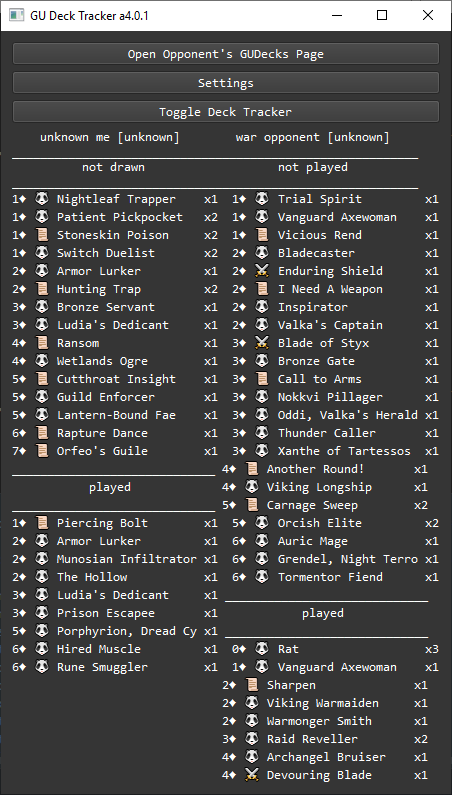
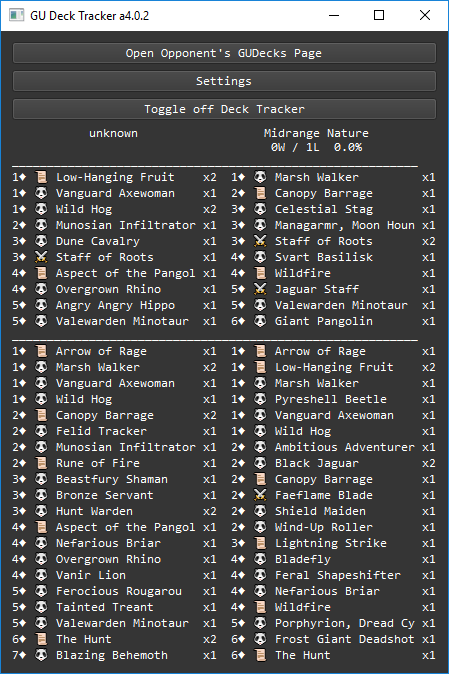
up readme, links and screenshot

Changed region(s): [[0.0, 0.0, 1.0, 1.0]]

diff --git a/main.py b/main.py
@@ -714,13 +714,13 @@ def compareVersions(v1, v2):
 
 
 def findGithubVersion():
-    githubData = urllib.request.urlopen("https://github.com/JMoore11235/GU_Deck_Tracker/")
+    githubData = urllib.request.urlopen("https://github.com/antofa/GU_Deck_Tracker/")
     githubString = githubData.read().decode("utf8")
     return re.search('gu_tracker-v(.*).py" ', githubString).group(1).strip()
 
 
 def openPatchNotesWebpage():
-    webbrowser.open(("https://github.com/JMoore11235/GU_Deck_Tracker/blob/main/ChangeLog.md"), new=2, autoraise=True)
+    webbrowser.open(("https://github.com/antofa/GU_Deck_Tracker/blob/main/ChangeLog.md"), new=2, autoraise=True)
 
 
 def updateAndRestart(configFile, updateVersion):
@@ -736,19 +736,19 @@ def updateAndRestart(configFile, updateVersion):
 
     # Download the .exe
     filename, headers = urllib.request.urlretrieve(
-        "https://github.com/JMoore11235/GU_Deck_Tracker/releases/download/" + updateVersion +
+        "https://github.com/antofa/GU_Deck_Tracker/releases/download/" + updateVersion +
         "/gu_tracker-v" + updateVersion + ".exe", "gu_tracker-v" + updateVersion + ".exe")
 
     # If people want to auto update with the .py file, uncomment this out
 
     # Download the .py
     # urllib.request.urlretrieve(
-    #    "https://github.com/JMoore11235/GU_Deck_Tracker/releases/download/" + updateVersion + "/gu_tracker-v" +
+    #    "https://github.com/antofa/GU_Deck_Tracker/releases/download/" + updateVersion + "/gu_tracker-v" +
     #    updateVersion + ".py", "gu_tracker-v" + updateVersion + ".py")
     #
     # Download the condensed_card_library.txt
     # urllib.request.urlretrieve(
-    #    "https://github.com/JMoore11235/GU_Deck_Tracker/releases/download/" + updateVersion +
+    #    "https://github.com/antofa/GU_Deck_Tracker/releases/download/" + updateVersion +
     #    "/condensed_card_library.txt", "condensed_card_library.txt")
 
     # Run the new version of the tracker and end this one
@@ -923,7 +923,7 @@ if __name__ == "__main__":
     # Check for updates #
     #####################
 
-    gitHubVersion = findGithubVersion()
+    gitHubVersion = 0  # findGithubVersion()
     # versionComparison = compareVersions(gitHubVersion, localVersion)
     # skip version check for now
     versionComparison = 0

diff --git a/version.py b/version.py
@@ -1,1 +1,1 @@
-VERSION = 'a4.0.1'
+VERSION = 'a4.0.2'

diff --git a/README.md b/README.md
@@ -9,10 +9,14 @@ This is your Gods Unchained Deck Tracker and still under development.
 ## Features (need helps):
 Priority highest to lowest
 
-- [x] Get Player Deck
-- [x] Get Opponent Deck
+- [x] Get player deck
+- [x] Get opponent deck
+- [x] Get opponent deck stats + archetype
 - [ ] Process shuffled cards
+- [ ] Process obliterated cards
+- [ ] Process known cards in opponent hand
 - [ ] Handle unknown cards (from future sets)
+- [ ] Get opponent player performance from last week
 - [ ] Card preview (image with description)
 - [ ] Recover update app functions (for existing users)
 
@@ -35,12 +39,12 @@ but if you're on Mac/Linux, I'd really appreciate if you tell me if it works or 
 
 ## FAQs:<br>
 - Q: My Deck Tracker crashes as soon as I open it!<br>
-  A: That isn't a question, but try delteting your config.txt file. If that doesn't work, please reach out to me at JMoney#6100 on Discord!
+  A: That isn't a question, but try deleting your config.txt file. If that doesn't work, please reach out to me at antofa#3694 on Discord!
 
 ## Alternatives:
 - https://github.com/JMoore11235/GU_Deck_Tracker (original project)
 - https://github.com/p2etools/gu-decks-assistant (took some ideas)
 
 ## Donations:<br>
-If you're feeling extremely generous and want to support the continued development of this tracker,<br>
-ETH Address: 0xfD48bAe62a0a815bAAFEE04B2c321CA67EB34658
+If you're feeling extremely generous and want to support the continued development of this tracker:<br>
+ETH Address (ERC20): 0xfD48bAe62a0a815bAAFEE04B2c321CA67EB34658
